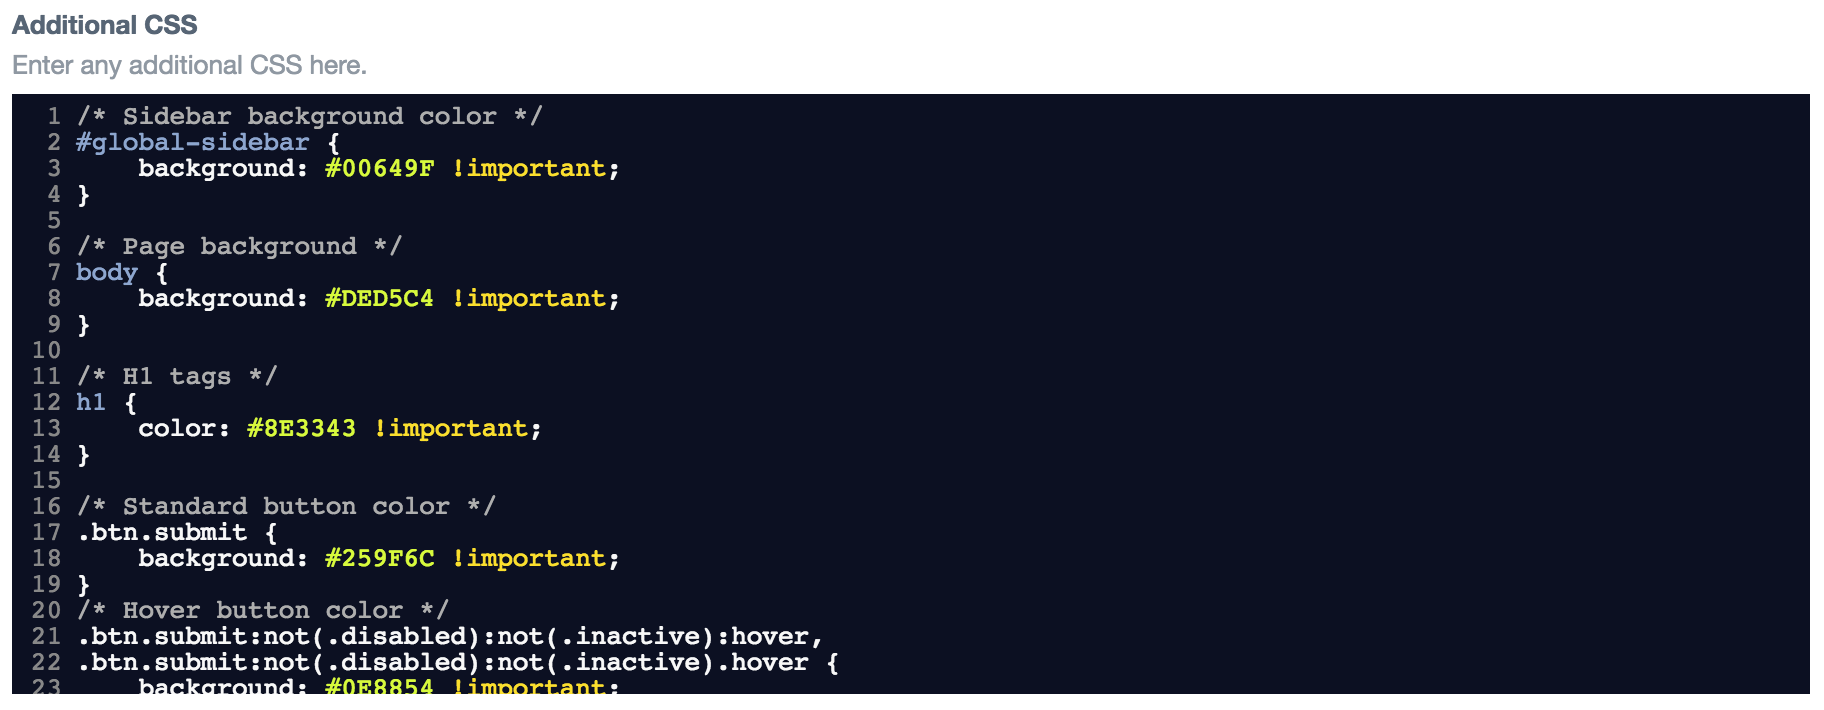
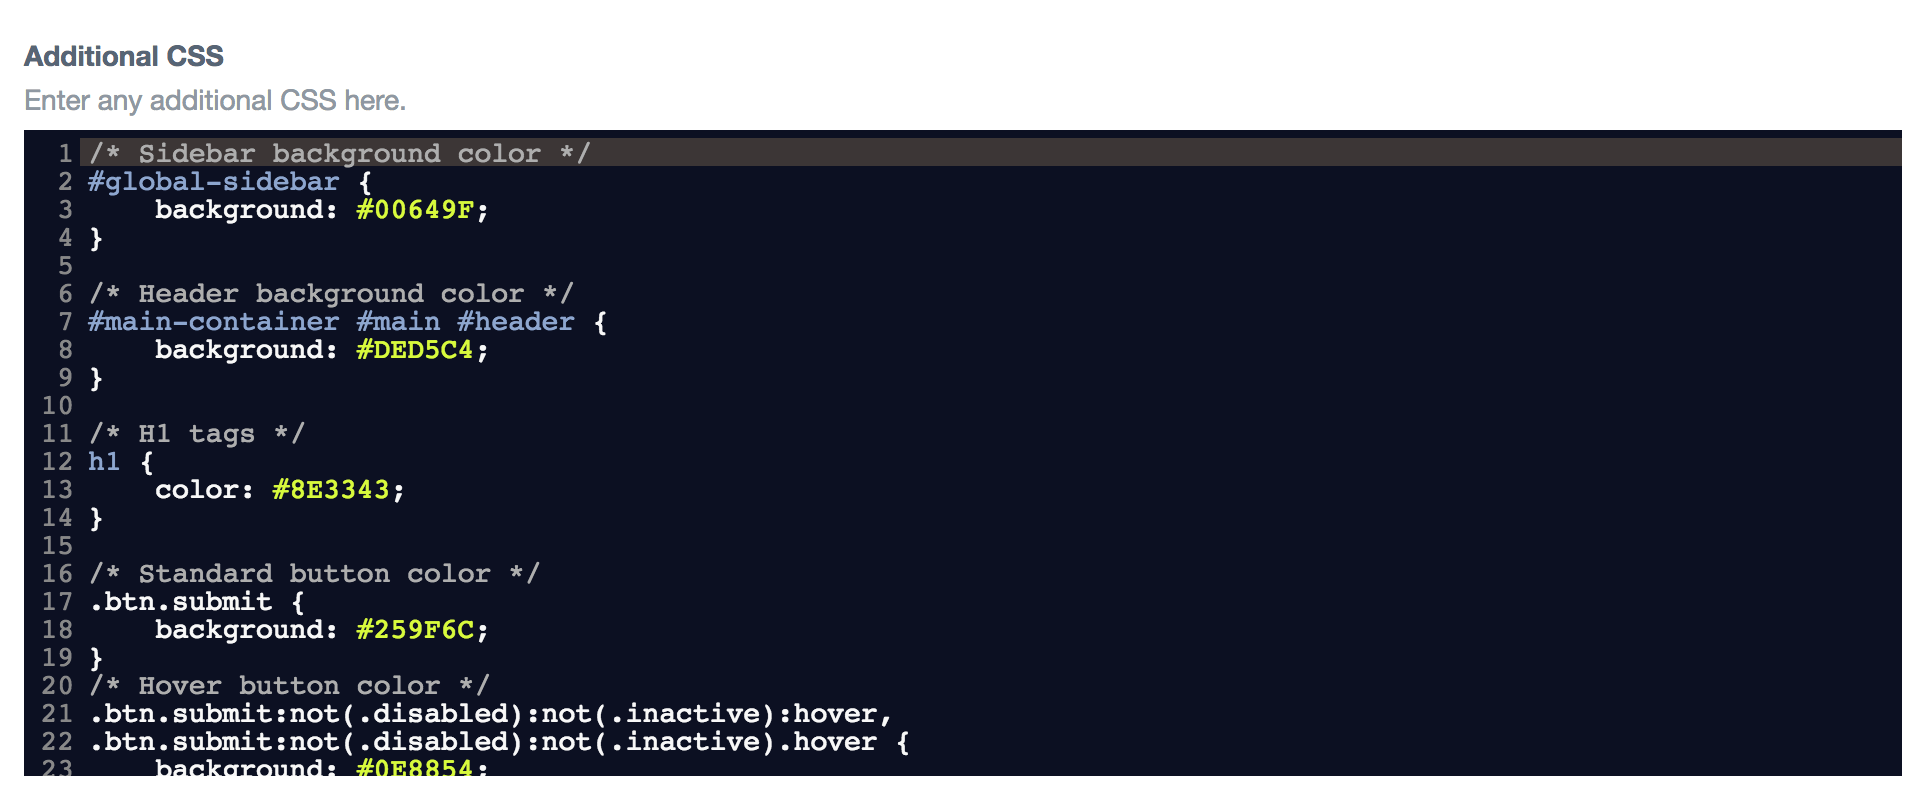
(v2.1.0) Refactored with Craft 3 techniques

Changed region(s): [[0.0, 0.0, 1.0, 0.9915]]

diff --git a/src/resources/js/blackboard.js b/src/resources/js/blackboard.js
@@ -1,0 +1,9 @@
+$(function () {
+    CodeMirror.fromTextArea(document.getElementById('settings-additionalCss'), {
+        indentUnit: 4,
+        styleActiveLine: true,
+        lineNumbers: true,
+        lineWrapping: true,
+        theme: 'blackboard'
+    });
+});

diff --git a/src/CpCss.php b/src/CpCss.php
@@ -11,10 +11,15 @@
 
 namespace doublesecretagency\cpcss;
 
+use yii\base\Event;
+
 use Craft;
 use craft\base\Plugin;
+use craft\events\TemplateEvent;
+use craft\web\View;
 
 use doublesecretagency\cpcss\models\Settings;
+use doublesecretagency\cpcss\web\assets\CustomAssets;
 use doublesecretagency\cpcss\web\assets\SettingsAssets;
 
 /**
@@ -35,9 +40,27 @@ class CpCss extends Plugin
     {
         parent::init();
         self::$plugin = $this;
-        if (Craft::$app->getRequest()->getIsCpRequest()) {
-            $this->_renderCss();
+        // If not control panel request, bail
+        if (!Craft::$app->getRequest()->getIsCpRequest()) {
+            return false;
         }
+        // Load CSS before template is rendered
+        Event::on(
+            View::class,
+            View::EVENT_BEFORE_RENDER_TEMPLATE,
+            function (TemplateEvent $event) {
+                // Get view
+                $view = Craft::$app->getView();
+                // Load CSS file
+                $view->registerAssetBundle(CustomAssets::class);
+                // Load additional CSS
+                $settings = $this->getSettings();
+                $css = trim($settings->additionalCss);
+                if ($css) {
+                    $view->registerCss($css);
+                }
+            }
+        );
     }
 
     /**
@@ -53,53 +76,14 @@ class CpCss extends Plugin
      */
     protected function settingsHtml(): string
     {
-        $this->_loadCodeMirror();
+        $view = Craft::$app->getView();
+        $view->registerAssetBundle(SettingsAssets::class);
         $overrideKeys = array_keys(Craft::$app->getConfig()->getConfigFromFile('cp-css'));
-        return Craft::$app->getView()->renderTemplate('cp-css/settings', [
+        return $view->renderTemplate('cp-css/settings', [
             'settings' => $this->getSettings(),
             'overrideKeys' => $overrideKeys,
             'docsUrl' => $this->documentationUrl,
         ]);
-    }
-
-    /**
-     * @return void
-     */
-    private function _loadCodeMirror()
-    {
-        $view = Craft::$app->getView();
-        $view->registerAssetBundle(SettingsAssets::class);
-        $view->registerJs('
-$(function () {
-    console.log("Loading CodeMirror...");
-    CodeMirror.fromTextArea(document.getElementById("settings-additionalCss"), {
-        indentUnit: 4,
-        styleActiveLine: true,
-        lineNumbers: true,
-        lineWrapping: true,
-        theme: "blackboard"
-    });
-});');
-    }
-
-    /**
-     * @return void
-     */
-    private function _renderCss()
-    {
-        $view = Craft::$app->getView();
-        $settings = $this->getSettings();
-        if (trim($settings->cssFile)) {
-            $filepath = $settings->cssFile;
-            if ($hash = @sha1_file($filepath)) {
-                $view->registerCssFile($filepath.'?e='.$hash);
-            } else {
-                $view->registerCssFile($filepath);
-            }
-        }
-        if (trim($settings->additionalCss)) {
-            $view->registerCss($settings->additionalCss);
-        }
     }
 
 }

diff --git a/src/web/assets/CustomAssets.php b/src/web/assets/CustomAssets.php
@@ -14,11 +14,13 @@ namespace doublesecretagency\cpcss\web\assets;
 use craft\web\AssetBundle;
 use craft\web\assets\cp\CpAsset;
 
+use doublesecretagency\cpcss\CpCss;
+
 /**
- * Class SettingsAssets
- * @since 2.0.0
+ * Class CustomAssets
+ * @since 2.1.0
  */
-class SettingsAssets extends AssetBundle
+class CustomAssets extends AssetBundle
 {
 
     /** @inheritdoc */
@@ -26,18 +28,20 @@ class SettingsAssets extends AssetBundle
     {
         parent::init();
 
-        $this->sourcePath = '@doublesecretagency/cpcss/resources';
         $this->depends = [CpAsset::class];
 
-        $this->css = [
-            'css/codemirror.css',
-            'css/blackboard.css',
-        ];
+        $settings = CpCss::$plugin->getSettings();
 
-        $this->js = [
-            'js/codemirror-css.js',
-            'js/blackboard.js',
-        ];
+        $file = trim($settings['cssFile']);
+
+        if ($file) {
+            // Cache buster
+            if ($hash = @sha1_file($file)) {
+                $file .= '?e='.$hash;
+            }
+            // Load CSS file
+            $this->css = [$file];
+        }
     }
 
 }

diff --git a/README.md b/README.md
@@ -28,32 +28,32 @@ Customizing your CSS is pretty easy. But to make it even easier, here's a snippe
 ```css
 /* Sidebar background color */
 #global-sidebar {
-    background: #333f4d !important;
+    background: #333f4d;
 }
 
 /* Header background color */
 #main-container #main #header {
-    background: #ebedef !important;
+    background: #ebedef;
 }
 
 /* H1 tags */
 h1 {
-    color: #29323d !important;
+    color: #29323d;
 }
 
 /* Standard button color */
 .btn.submit {
-    background: #da5a47 !important;
+    background: #da5a47;
 }
 /* Hover button color */
 .btn.submit:not(.disabled):not(.inactive):hover,
 .btn.submit:not(.disabled):not(.inactive).hover {
-    background: #bf503f !important;
+    background: #bf503f;
 }
 /* Active button color */
 .btn.submit:not(.disabled):not(.inactive):active,
 .btn.submit:not(.disabled):not(.inactive).active {
-    background: #8c3b2e !important;
+    background: #8c3b2e;
 }
 ```
 

diff --git a/CHANGELOG.md b/CHANGELOG.md
@@ -1,5 +1,15 @@
 # Changelog
 
+## 2.1.0 - 2018-01-01
+
+### Added
+- Custom CSS now loads _after_ the default Craft CSS.
+
+### Changed
+- Refactored to make better use of Asset Bundles.
+- Refactored to load custom CSS just before template loads.
+- Updated sample CSS in README (no longer needs `!important`).
+
 ## 2.0.1 - 2017-12-30
 
 ### Changed
